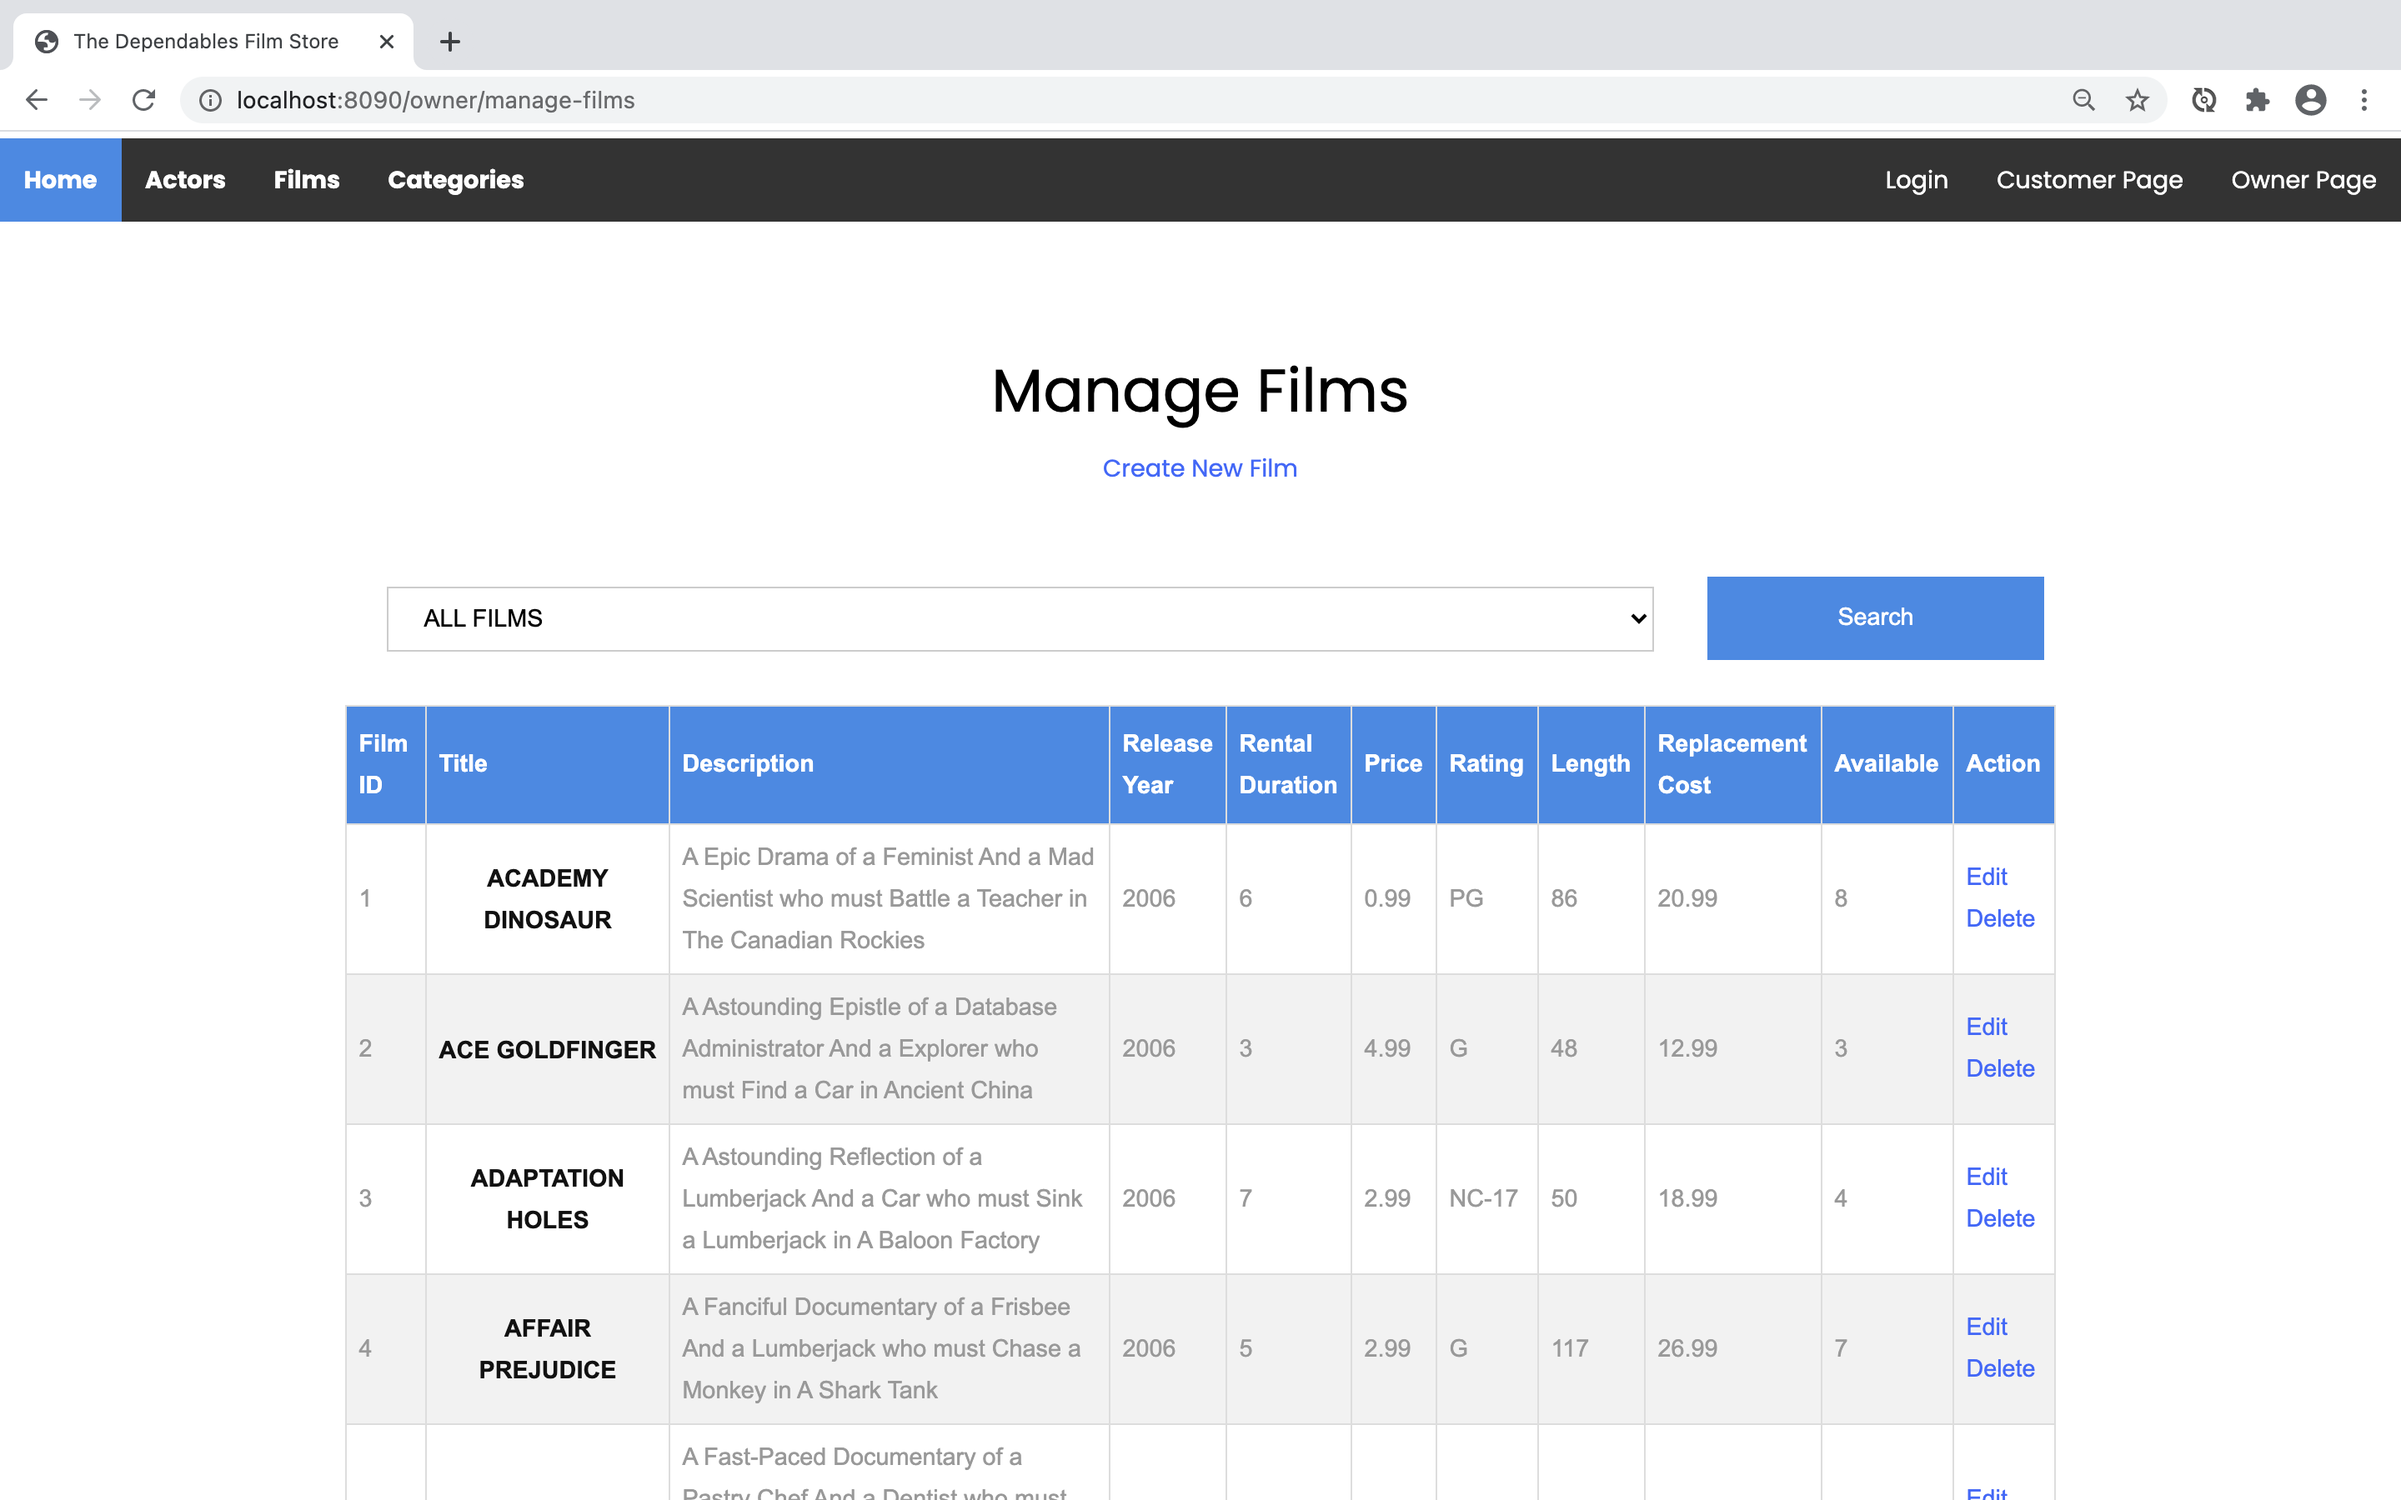
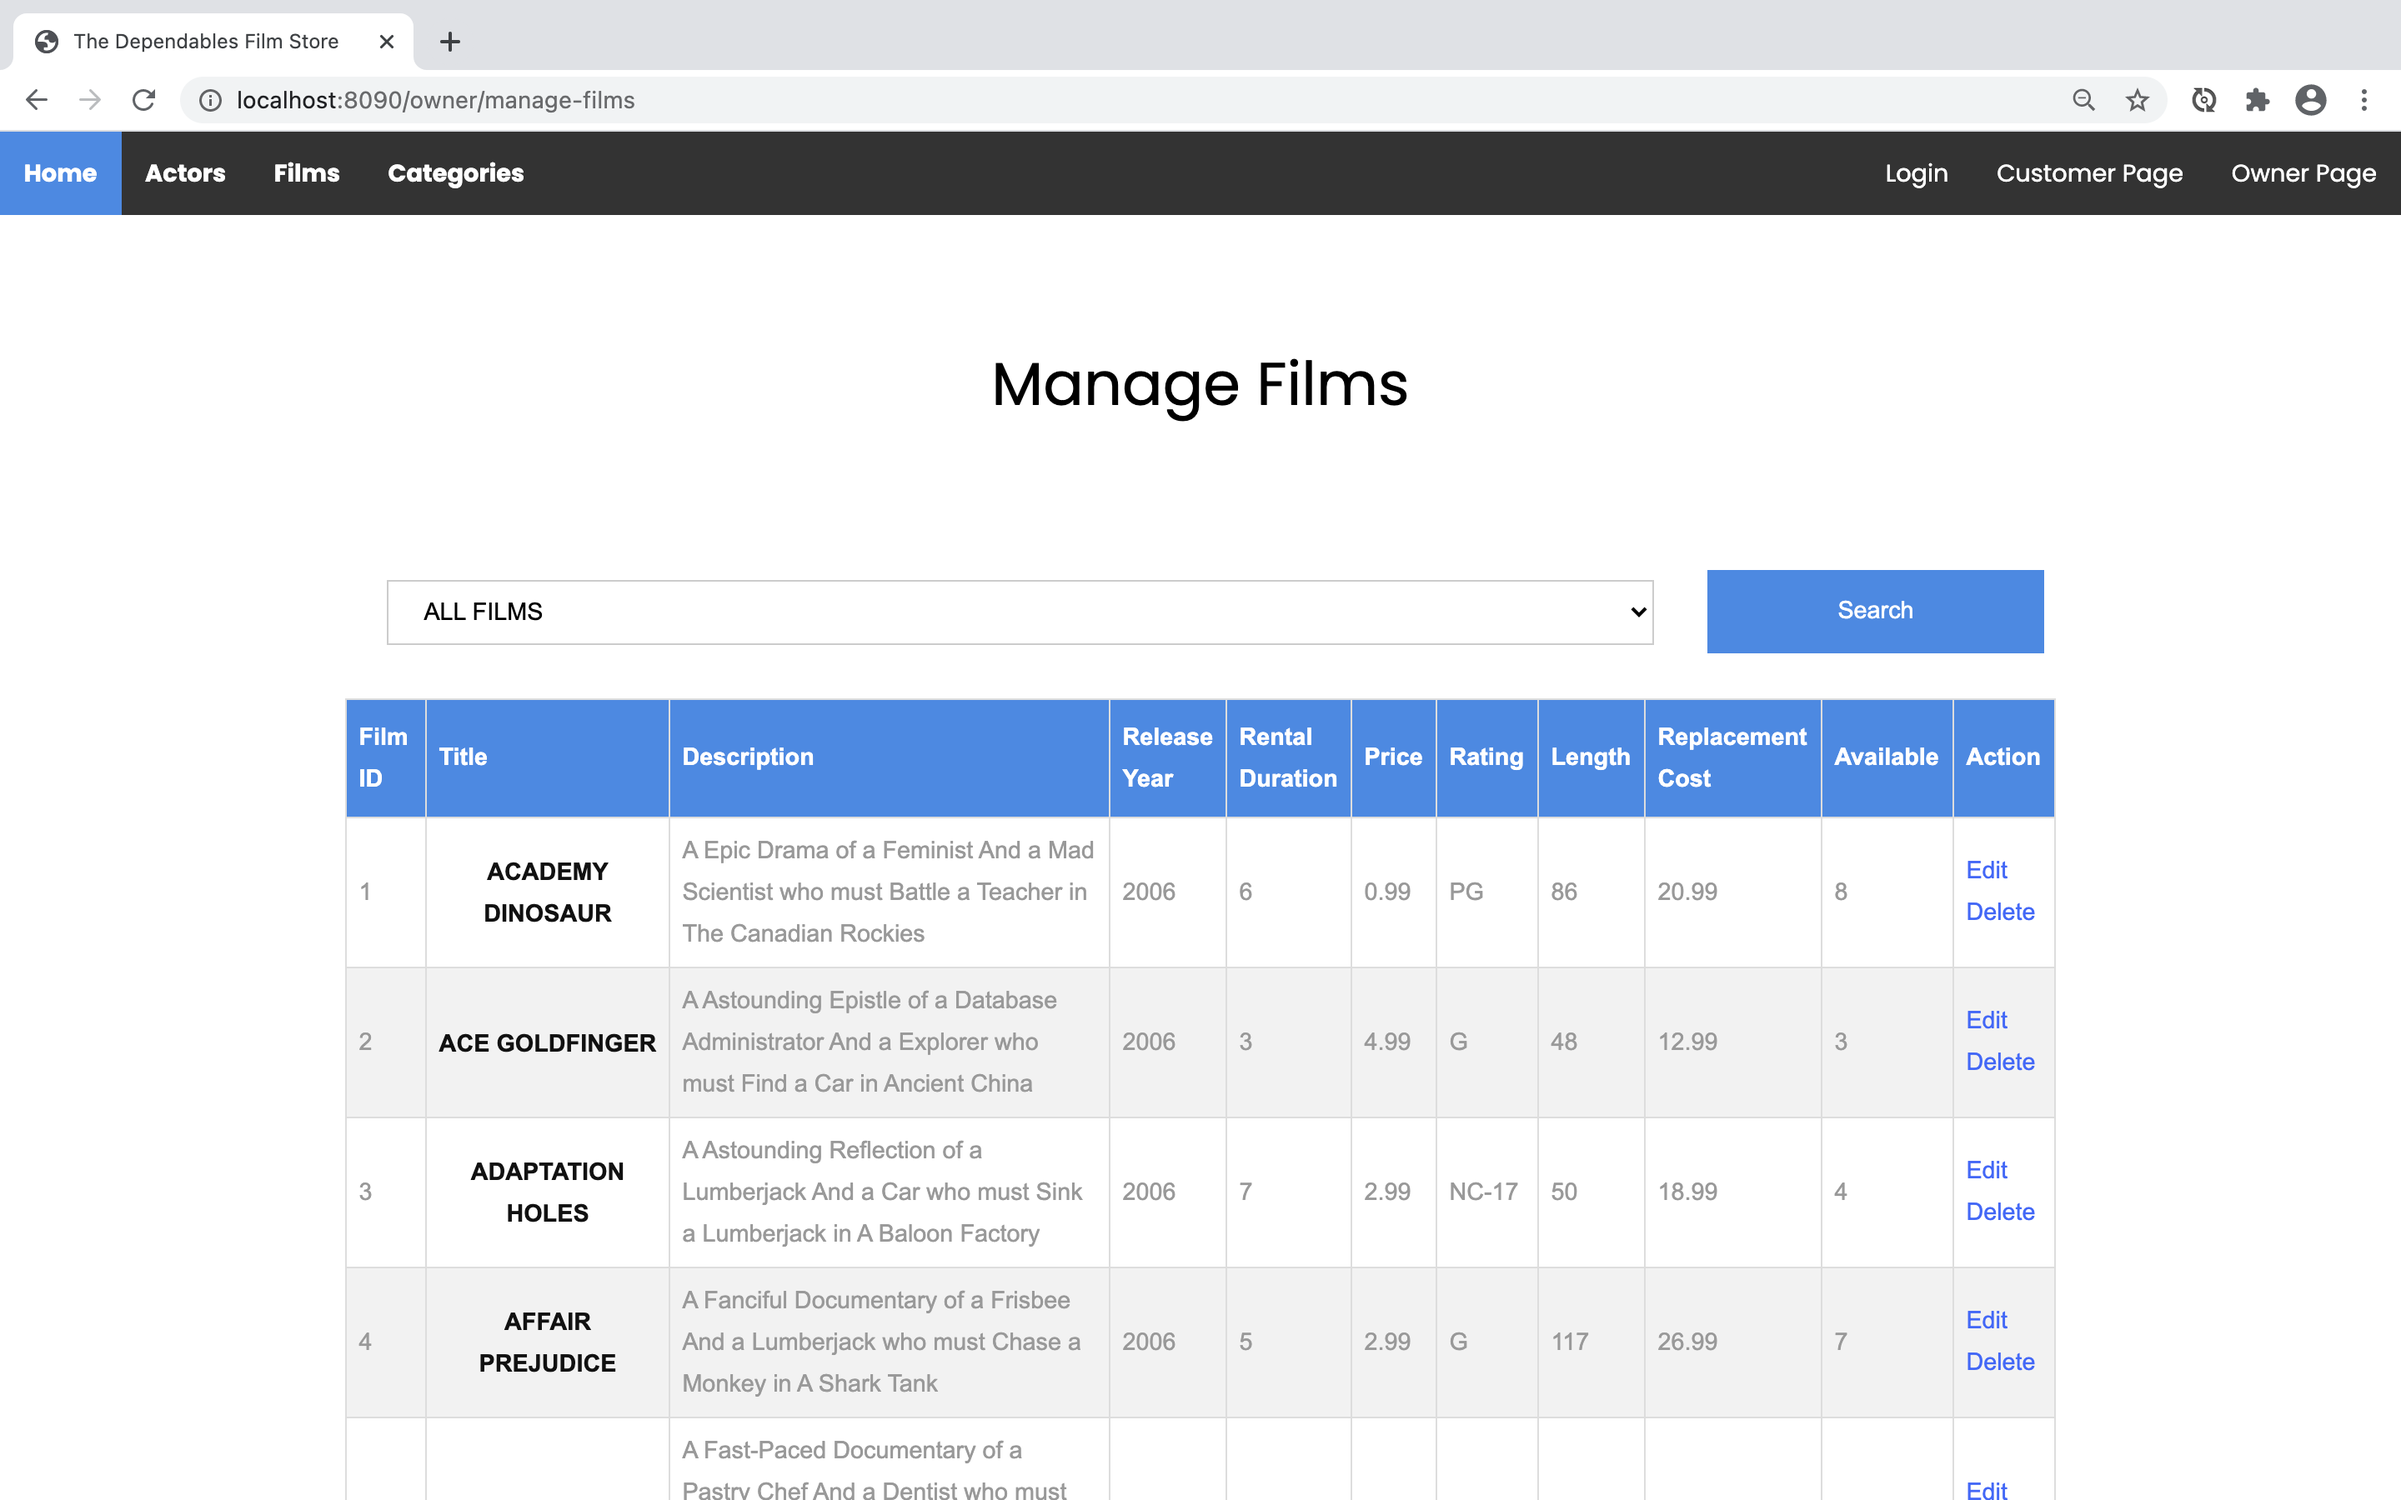
cleaning up

diff --git a/src/main/resources/templates/owner/owner.html b/src/main/resources/templates/owner/owner.html
@@ -48,13 +48,7 @@
                 <td><a class="hyperlink-text" href="/owner/customers">View All Customers</a></td>
             </tr>
             <tr>
-                <td><a class="hyperlink-text" href="/newCustomer">Add Customer</a></td>
-            </tr>
-            <tr>
                 <td><a class="hyperlink-text" href="owner/manage-films">View All Films</a></td>
-            </tr>
-            <tr>
-                <td><a class="hyperlink-text" href="/new">Add New Film</a></td>
             </tr>
         </table>
 

diff --git a/src/main/resources/templates/owner/manage-films.html b/src/main/resources/templates/owner/manage-films.html
@@ -12,7 +12,6 @@
 	<div layout:fragment="content">
 		<div align="center">
 			<h1>Manage Films</h1>
-			<a href="/new">Create New Film</a>
 			<br/><br/>
 
 

diff --git a/src/main/java/com/sparta/engineering72/sakilaproject/controller/FilmController.java b/src/main/java/com/sparta/engineering72/sakilaproject/controller/FilmController.java
@@ -114,33 +114,6 @@ public class FilmController {
         return "/owner/manage-films";
     }
 
-    @RequestMapping("/new")
-    public String showNewProductPage(Model model) {
-        Film film = new Film();
-
-        model.addAttribute("film", film);
-
-//        filmService.getAllSpecialFeatures
-
-//        String releaseYear = "";
-//        model.addAttribute("releaseYear", releaseYear);
-//        LocalDate localDate = LocalDate.parse(releaseYear);
-//        film.setReleaseYear(localDate);
-
-        return "/owner/create-new-film";
-    }
-
-    @RequestMapping(value = "/save", method = RequestMethod.POST)
-    public String saveProduct(@ModelAttribute("film") Film film, Model model) {
-        film.setLastUpdate(Timestamp.from(Instant.now()));
-        film.setReleaseYear(LocalDate.now().getYear()); //Fixme make it a choice
-        //Fixme set language_id manually
-
-        filmService.save(film);
-
-        return "redirect:/owner/manage-films";
-    }
-
     @RequestMapping("/edit/{id}")
     public ModelAndView showEditProductPage(@PathVariable(name = "id") int id) {
         ModelAndView mav = new ModelAndView("/owner/edit-film");

diff --git a/src/main/java/com/sparta/engineering72/sakilaproject/controller/CustomerController.java b/src/main/java/com/sparta/engineering72/sakilaproject/controller/CustomerController.java
@@ -98,32 +98,6 @@ public class CustomerController {
         modelMap.addAttribute("customer", customer);
         return "owner/customerDetails";
     }
-      
-    @RequestMapping("/newCustomer")
-    public String showNewProductPage(Model model) {
-        Customer customer = new Customer();
 
-        model.addAttribute("customer", customer);
-
-//        filmService.getAllSpecialFeatures
-
-//        String releaseYear = "";
-//        model.addAttribute("releaseYear", releaseYear);
-//        LocalDate localDate = LocalDate.parse(releaseYear);
-//        film.setReleaseYear(localDate);
-
-        return "/owner/create-new-customer";
-    }
-
-    @RequestMapping(value = "/saveCustomer", method = RequestMethod.POST)
-    public String saveProduct(@ModelAttribute("film") Customer customer, Model model) {
-//        customer.setLastUpdate(Timestamp.from(Instant.now()));
-//        customer.getCreateDate(LocalDate.now().getYear()); //Fixme make it a choice
-//        //Fixme set store_id; address_id
-
-        customerService.save(customer);
-
-        return "redirect:/newCustomer";
-    }
 
 }

diff --git a/README.md b/README.md
@@ -37,7 +37,7 @@
 	- Customer: Will be able to see their own account information including which films they have rented
 		- Allows for personalised experience for each customer
 		- Able to rent a specific film
-	- Owner: Has all levels of access and can write to the database, i.e creating new customers and adding films. Can see all customer information and films that have been taken out
+	- Owner: Has all levels of access and can write to the database. Can see all customer information and films that have been taken out
 		- Allows for organised control when it comes to owners
 		- Able to update the information of a specific film
 		- Able to delete a specific film
@@ -114,7 +114,8 @@
 - Allow user to type the input, instead of filtering it
 - Allow search for films by language
 - Allow for changes in the inventory to be made to reflect the most up to date rental status
-- Edit/delete user functionality
+- Add film/customer functionality
+- Edit/delete customer functionality
 
 
 
